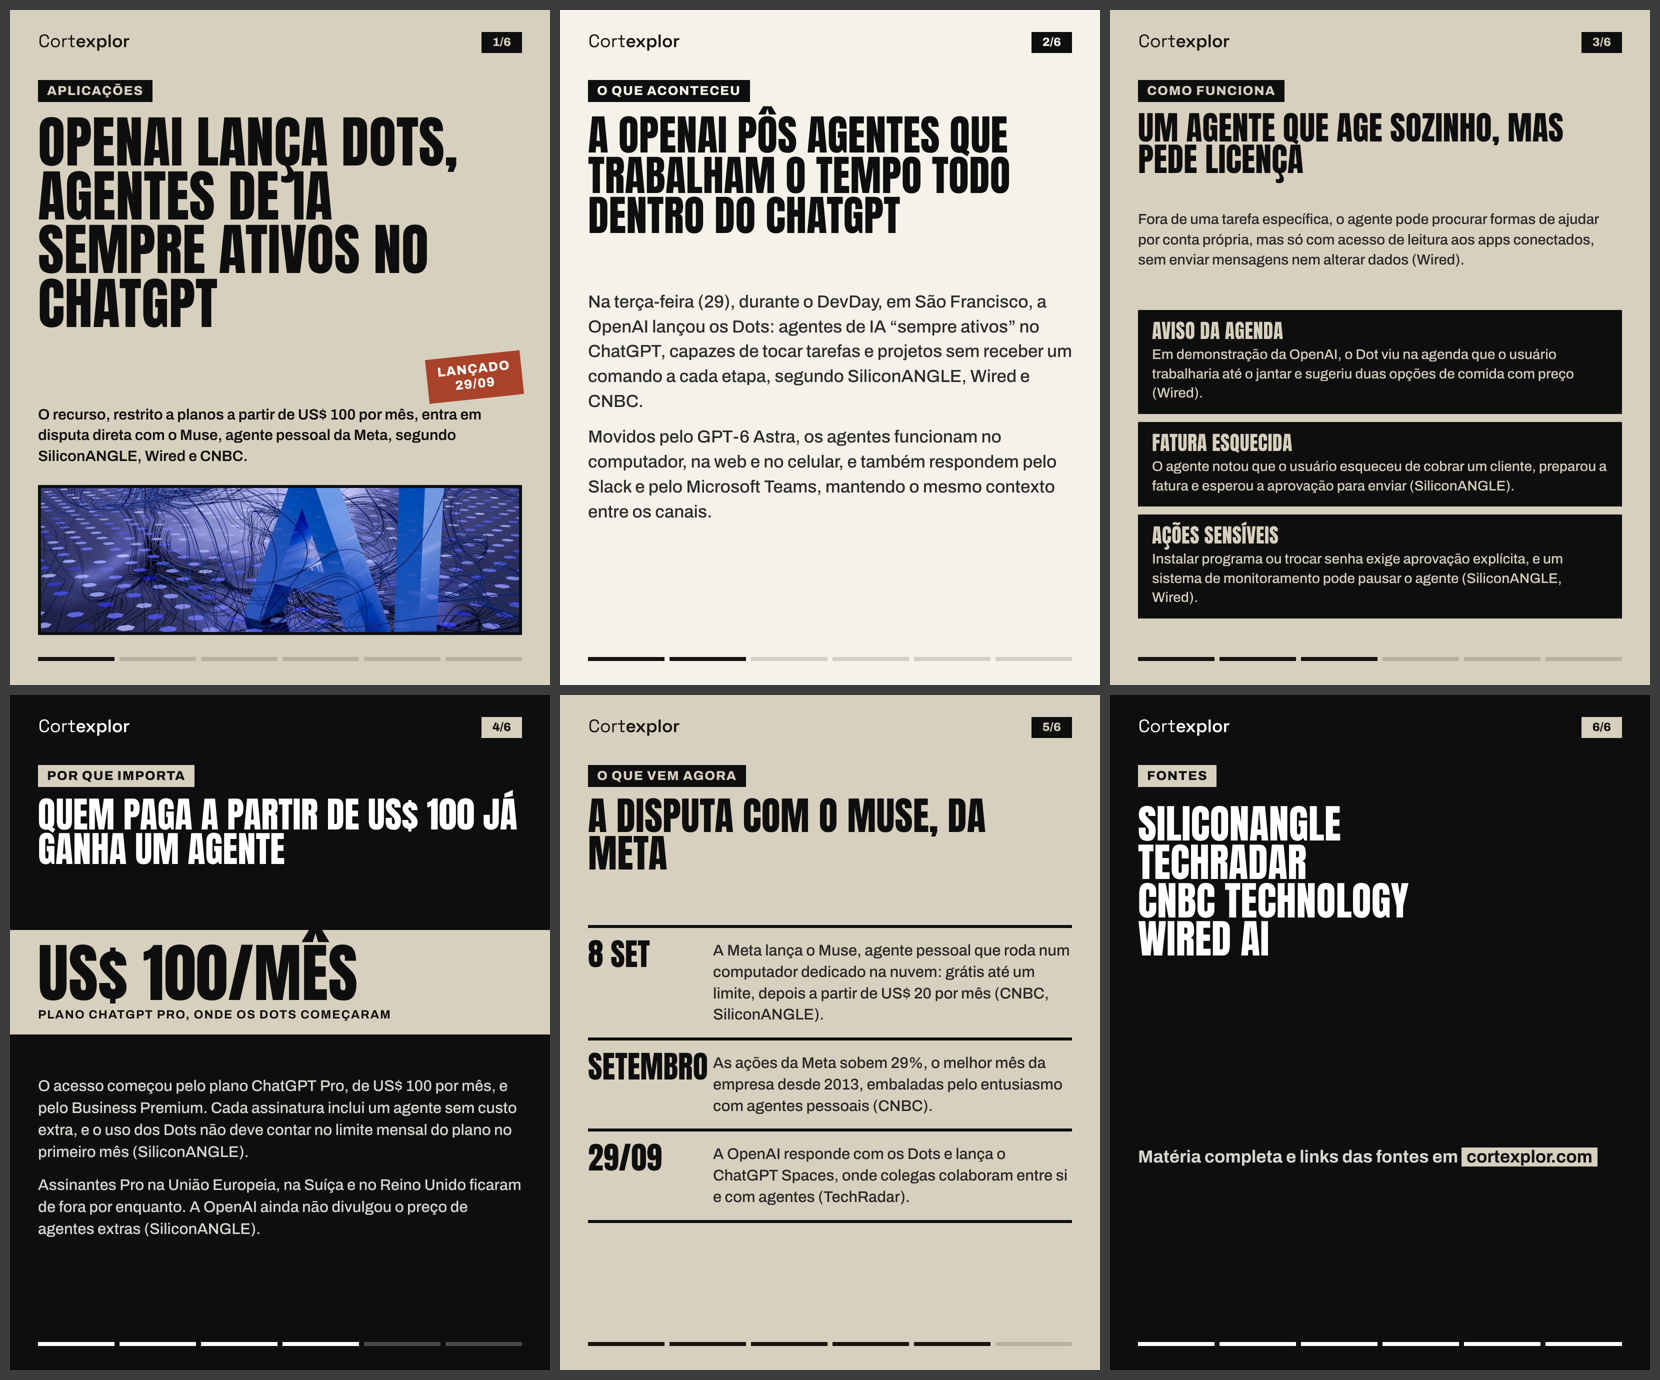
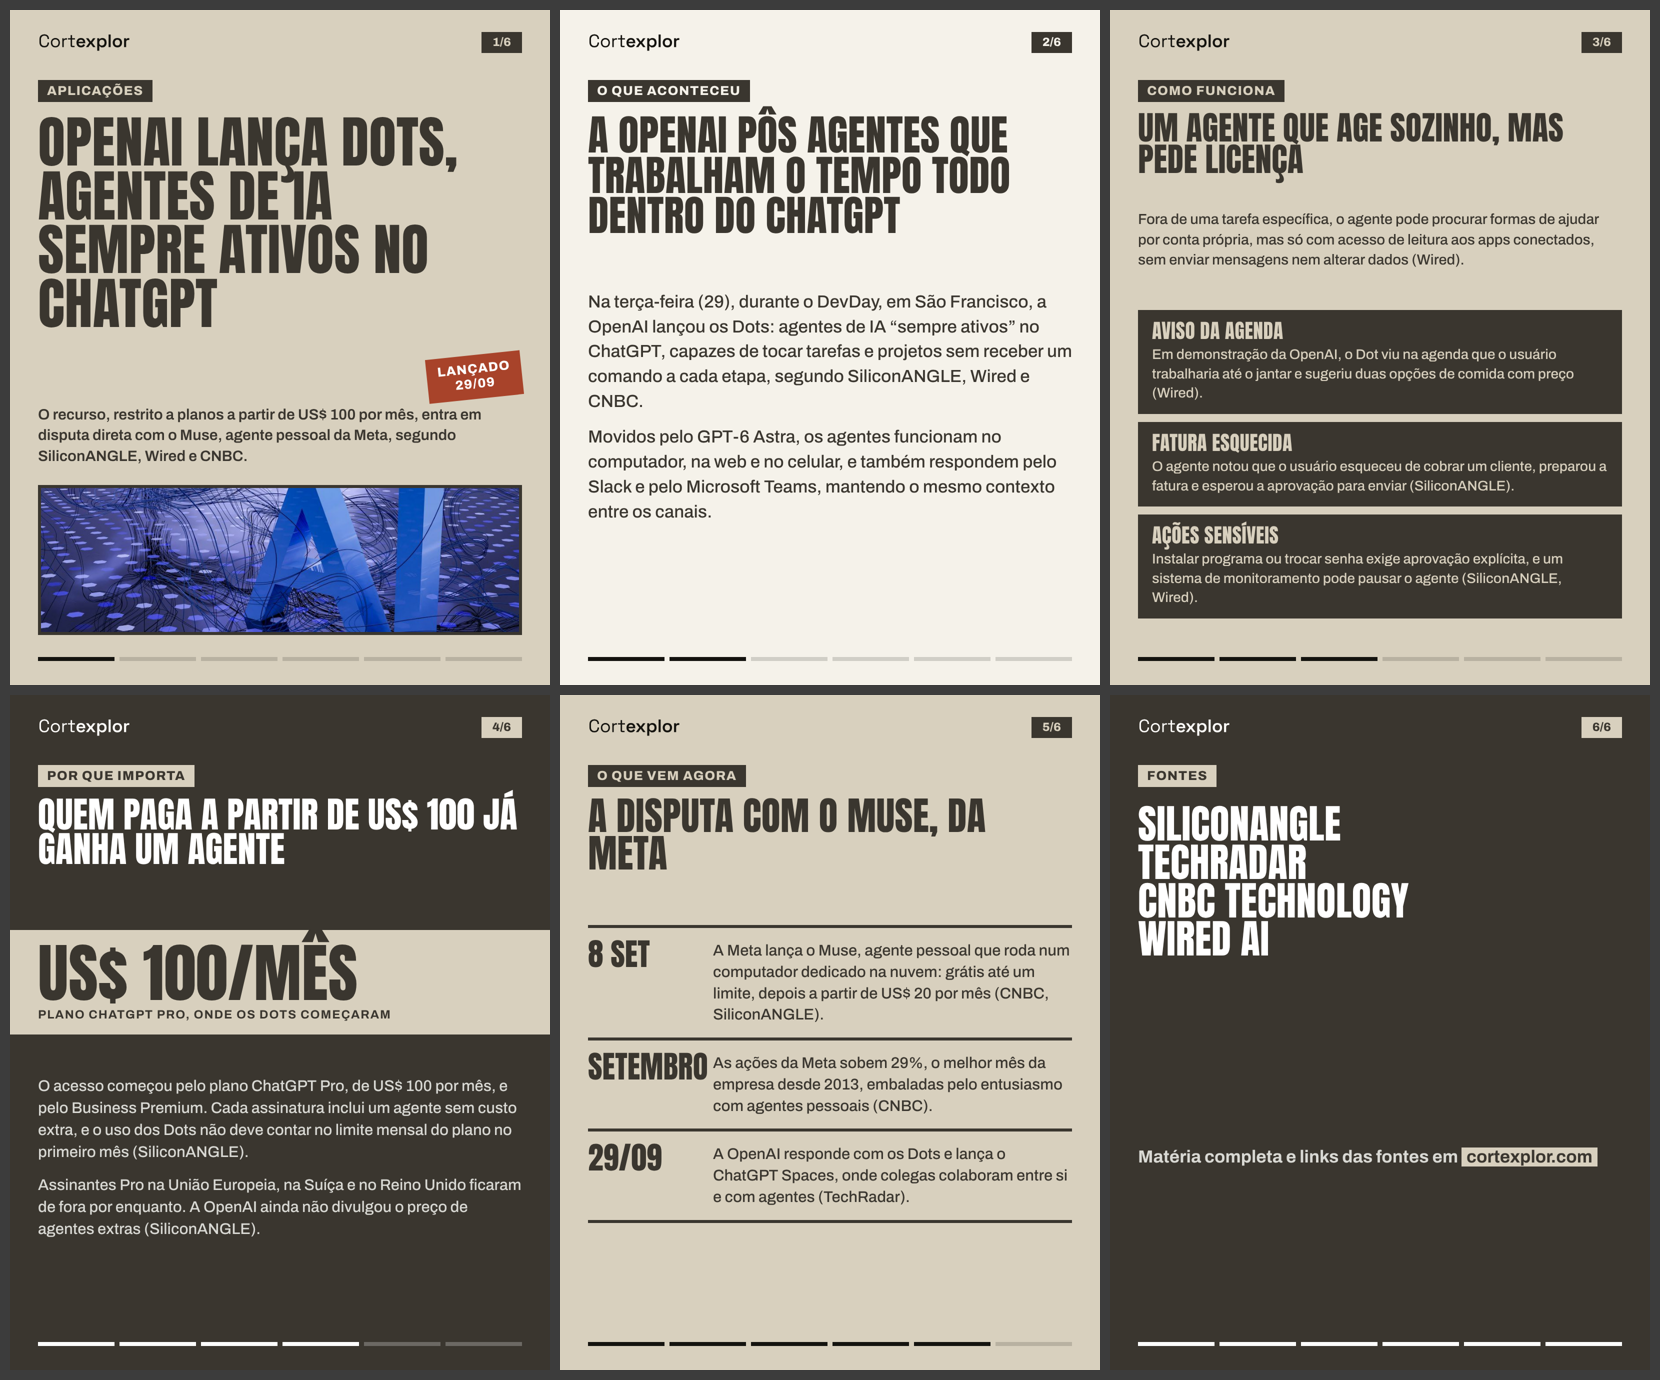
Poster: preto trocado por grafite quente
Claude-Session: https://claude.ai/code/session_0158HN6BTWsPGuibWtbN19oZ

diff --git a/social/lab/_html/..-out-google-lanca-gemini-4-argon-ciberseguranca-poster-01.html b/social/lab/_html/..-out-google-lanca-gemini-4-argon-ciberseguranca-poster-01.html
@@ -9,10 +9,10 @@ body{-webkit-font-smoothing:antialiased;text-rendering:geometricPrecision}
 .prog i{display:block;height:100%;border-radius:2px}
 svg.ic{display:inline-block;vertical-align:middle;flex:none}
 
-.P{font-family:'Archivo',sans-serif;--y:#D8D0BE;--k:#0E0E0E;--w:#F5F2EA;--r:#A8432A}
-.P.y{background:var(--y);color:var(--k);--ac:var(--k);--soft:#262626;--pb:#0E0E0E;--pt:var(--y)}
-.P.k{background:var(--k);color:#fff;--ac:var(--y);--soft:#D9D9D4;--pb:var(--y);--pt:#0E0E0E}
-.P.w{background:var(--w);color:var(--k);--ac:var(--r);--soft:#2A2A2A;--pb:#0E0E0E;--pt:var(--w)}
+.P{font-family:'Archivo',sans-serif;--y:#D8D0BE;--k:#3A362F;--w:#F5F2EA;--r:#A8432A}
+.P.y{background:var(--y);color:var(--k);--ac:var(--k);--soft:#3A362F;--pb:#3A362F;--pt:var(--y)}
+.P.k{background:var(--k);color:#fff;--ac:var(--y);--soft:#D9D9D4;--pb:var(--y);--pt:#3A362F}
+.P.w{background:var(--w);color:var(--k);--ac:var(--r);--soft:#3A362F;--pb:#3A362F;--pt:var(--w)}
 .P .an{font-family:'Anton';text-transform:uppercase;font-weight:400;line-height:.96;letter-spacing:.002em}
 .P .top{position:absolute;left:56px;right:56px;top:44px;display:flex;justify-content:space-between;align-items:center}
 .P .top img{height:36px}

diff --git a/social/lab/_html/..-out-google-lanca-gemini-4-argon-ciberseguranca-poster-02.html b/social/lab/_html/..-out-google-lanca-gemini-4-argon-ciberseguranca-poster-02.html
@@ -9,10 +9,10 @@ body{-webkit-font-smoothing:antialiased;text-rendering:geometricPrecision}
 .prog i{display:block;height:100%;border-radius:2px}
 svg.ic{display:inline-block;vertical-align:middle;flex:none}
 
-.P{font-family:'Archivo',sans-serif;--y:#D8D0BE;--k:#0E0E0E;--w:#F5F2EA;--r:#A8432A}
-.P.y{background:var(--y);color:var(--k);--ac:var(--k);--soft:#262626;--pb:#0E0E0E;--pt:var(--y)}
-.P.k{background:var(--k);color:#fff;--ac:var(--y);--soft:#D9D9D4;--pb:var(--y);--pt:#0E0E0E}
-.P.w{background:var(--w);color:var(--k);--ac:var(--r);--soft:#2A2A2A;--pb:#0E0E0E;--pt:var(--w)}
+.P{font-family:'Archivo',sans-serif;--y:#D8D0BE;--k:#3A362F;--w:#F5F2EA;--r:#A8432A}
+.P.y{background:var(--y);color:var(--k);--ac:var(--k);--soft:#3A362F;--pb:#3A362F;--pt:var(--y)}
+.P.k{background:var(--k);color:#fff;--ac:var(--y);--soft:#D9D9D4;--pb:var(--y);--pt:#3A362F}
+.P.w{background:var(--w);color:var(--k);--ac:var(--r);--soft:#3A362F;--pb:#3A362F;--pt:var(--w)}
 .P .an{font-family:'Anton';text-transform:uppercase;font-weight:400;line-height:.96;letter-spacing:.002em}
 .P .top{position:absolute;left:56px;right:56px;top:44px;display:flex;justify-content:space-between;align-items:center}
 .P .top img{height:36px}

diff --git a/social/lab/_html/..-out-google-lanca-gemini-4-argon-ciberseguranca-poster-03.html b/social/lab/_html/..-out-google-lanca-gemini-4-argon-ciberseguranca-poster-03.html
@@ -9,10 +9,10 @@ body{-webkit-font-smoothing:antialiased;text-rendering:geometricPrecision}
 .prog i{display:block;height:100%;border-radius:2px}
 svg.ic{display:inline-block;vertical-align:middle;flex:none}
 
-.P{font-family:'Archivo',sans-serif;--y:#D8D0BE;--k:#0E0E0E;--w:#F5F2EA;--r:#A8432A}
-.P.y{background:var(--y);color:var(--k);--ac:var(--k);--soft:#262626;--pb:#0E0E0E;--pt:var(--y)}
-.P.k{background:var(--k);color:#fff;--ac:var(--y);--soft:#D9D9D4;--pb:var(--y);--pt:#0E0E0E}
-.P.w{background:var(--w);color:var(--k);--ac:var(--r);--soft:#2A2A2A;--pb:#0E0E0E;--pt:var(--w)}
+.P{font-family:'Archivo',sans-serif;--y:#D8D0BE;--k:#3A362F;--w:#F5F2EA;--r:#A8432A}
+.P.y{background:var(--y);color:var(--k);--ac:var(--k);--soft:#3A362F;--pb:#3A362F;--pt:var(--y)}
+.P.k{background:var(--k);color:#fff;--ac:var(--y);--soft:#D9D9D4;--pb:var(--y);--pt:#3A362F}
+.P.w{background:var(--w);color:var(--k);--ac:var(--r);--soft:#3A362F;--pb:#3A362F;--pt:var(--w)}
 .P .an{font-family:'Anton';text-transform:uppercase;font-weight:400;line-height:.96;letter-spacing:.002em}
 .P .top{position:absolute;left:56px;right:56px;top:44px;display:flex;justify-content:space-between;align-items:center}
 .P .top img{height:36px}

diff --git a/social/lab/_html/..-out-google-lanca-gemini-4-argon-ciberseguranca-poster-04.html b/social/lab/_html/..-out-google-lanca-gemini-4-argon-ciberseguranca-poster-04.html
@@ -9,10 +9,10 @@ body{-webkit-font-smoothing:antialiased;text-rendering:geometricPrecision}
 .prog i{display:block;height:100%;border-radius:2px}
 svg.ic{display:inline-block;vertical-align:middle;flex:none}
 
-.P{font-family:'Archivo',sans-serif;--y:#D8D0BE;--k:#0E0E0E;--w:#F5F2EA;--r:#A8432A}
-.P.y{background:var(--y);color:var(--k);--ac:var(--k);--soft:#262626;--pb:#0E0E0E;--pt:var(--y)}
-.P.k{background:var(--k);color:#fff;--ac:var(--y);--soft:#D9D9D4;--pb:var(--y);--pt:#0E0E0E}
-.P.w{background:var(--w);color:var(--k);--ac:var(--r);--soft:#2A2A2A;--pb:#0E0E0E;--pt:var(--w)}
+.P{font-family:'Archivo',sans-serif;--y:#D8D0BE;--k:#3A362F;--w:#F5F2EA;--r:#A8432A}
+.P.y{background:var(--y);color:var(--k);--ac:var(--k);--soft:#3A362F;--pb:#3A362F;--pt:var(--y)}
+.P.k{background:var(--k);color:#fff;--ac:var(--y);--soft:#D9D9D4;--pb:var(--y);--pt:#3A362F}
+.P.w{background:var(--w);color:var(--k);--ac:var(--r);--soft:#3A362F;--pb:#3A362F;--pt:var(--w)}
 .P .an{font-family:'Anton';text-transform:uppercase;font-weight:400;line-height:.96;letter-spacing:.002em}
 .P .top{position:absolute;left:56px;right:56px;top:44px;display:flex;justify-content:space-between;align-items:center}
 .P .top img{height:36px}

diff --git a/social/lab/_html/..-out-google-lanca-gemini-4-argon-ciberseguranca-poster-05.html b/social/lab/_html/..-out-google-lanca-gemini-4-argon-ciberseguranca-poster-05.html
@@ -9,10 +9,10 @@ body{-webkit-font-smoothing:antialiased;text-rendering:geometricPrecision}
 .prog i{display:block;height:100%;border-radius:2px}
 svg.ic{display:inline-block;vertical-align:middle;flex:none}
 
-.P{font-family:'Archivo',sans-serif;--y:#D8D0BE;--k:#0E0E0E;--w:#F5F2EA;--r:#A8432A}
-.P.y{background:var(--y);color:var(--k);--ac:var(--k);--soft:#262626;--pb:#0E0E0E;--pt:var(--y)}
-.P.k{background:var(--k);color:#fff;--ac:var(--y);--soft:#D9D9D4;--pb:var(--y);--pt:#0E0E0E}
-.P.w{background:var(--w);color:var(--k);--ac:var(--r);--soft:#2A2A2A;--pb:#0E0E0E;--pt:var(--w)}
+.P{font-family:'Archivo',sans-serif;--y:#D8D0BE;--k:#3A362F;--w:#F5F2EA;--r:#A8432A}
+.P.y{background:var(--y);color:var(--k);--ac:var(--k);--soft:#3A362F;--pb:#3A362F;--pt:var(--y)}
+.P.k{background:var(--k);color:#fff;--ac:var(--y);--soft:#D9D9D4;--pb:var(--y);--pt:#3A362F}
+.P.w{background:var(--w);color:var(--k);--ac:var(--r);--soft:#3A362F;--pb:#3A362F;--pt:var(--w)}
 .P .an{font-family:'Anton';text-transform:uppercase;font-weight:400;line-height:.96;letter-spacing:.002em}
 .P .top{position:absolute;left:56px;right:56px;top:44px;display:flex;justify-content:space-between;align-items:center}
 .P .top img{height:36px}

diff --git a/social/lab/_html/..-out-google-lanca-gemini-4-argon-ciberseguranca-poster-06.html b/social/lab/_html/..-out-google-lanca-gemini-4-argon-ciberseguranca-poster-06.html
@@ -9,10 +9,10 @@ body{-webkit-font-smoothing:antialiased;text-rendering:geometricPrecision}
 .prog i{display:block;height:100%;border-radius:2px}
 svg.ic{display:inline-block;vertical-align:middle;flex:none}
 
-.P{font-family:'Archivo',sans-serif;--y:#D8D0BE;--k:#0E0E0E;--w:#F5F2EA;--r:#A8432A}
-.P.y{background:var(--y);color:var(--k);--ac:var(--k);--soft:#262626;--pb:#0E0E0E;--pt:var(--y)}
-.P.k{background:var(--k);color:#fff;--ac:var(--y);--soft:#D9D9D4;--pb:var(--y);--pt:#0E0E0E}
-.P.w{background:var(--w);color:var(--k);--ac:var(--r);--soft:#2A2A2A;--pb:#0E0E0E;--pt:var(--w)}
+.P{font-family:'Archivo',sans-serif;--y:#D8D0BE;--k:#3A362F;--w:#F5F2EA;--r:#A8432A}
+.P.y{background:var(--y);color:var(--k);--ac:var(--k);--soft:#3A362F;--pb:#3A362F;--pt:var(--y)}
+.P.k{background:var(--k);color:#fff;--ac:var(--y);--soft:#D9D9D4;--pb:var(--y);--pt:#3A362F}
+.P.w{background:var(--w);color:var(--k);--ac:var(--r);--soft:#3A362F;--pb:#3A362F;--pt:var(--w)}
 .P .an{font-family:'Anton';text-transform:uppercase;font-weight:400;line-height:.96;letter-spacing:.002em}
 .P .top{position:absolute;left:56px;right:56px;top:44px;display:flex;justify-content:space-between;align-items:center}
 .P .top img{height:36px}

diff --git a/social/lab/_html/..-out-openai-lanca-dots-agentes-permanentes-chatgpt-poster-01.html b/social/lab/_html/..-out-openai-lanca-dots-agentes-permanentes-chatgpt-poster-01.html
@@ -9,10 +9,10 @@ body{-webkit-font-smoothing:antialiased;text-rendering:geometricPrecision}
 .prog i{display:block;height:100%;border-radius:2px}
 svg.ic{display:inline-block;vertical-align:middle;flex:none}
 
-.P{font-family:'Archivo',sans-serif;--y:#D8D0BE;--k:#0E0E0E;--w:#F5F2EA;--r:#A8432A}
-.P.y{background:var(--y);color:var(--k);--ac:var(--k);--soft:#262626;--pb:#0E0E0E;--pt:var(--y)}
-.P.k{background:var(--k);color:#fff;--ac:var(--y);--soft:#D9D9D4;--pb:var(--y);--pt:#0E0E0E}
-.P.w{background:var(--w);color:var(--k);--ac:var(--r);--soft:#2A2A2A;--pb:#0E0E0E;--pt:var(--w)}
+.P{font-family:'Archivo',sans-serif;--y:#D8D0BE;--k:#3A362F;--w:#F5F2EA;--r:#A8432A}
+.P.y{background:var(--y);color:var(--k);--ac:var(--k);--soft:#3A362F;--pb:#3A362F;--pt:var(--y)}
+.P.k{background:var(--k);color:#fff;--ac:var(--y);--soft:#D9D9D4;--pb:var(--y);--pt:#3A362F}
+.P.w{background:var(--w);color:var(--k);--ac:var(--r);--soft:#3A362F;--pb:#3A362F;--pt:var(--w)}
 .P .an{font-family:'Anton';text-transform:uppercase;font-weight:400;line-height:.96;letter-spacing:.002em}
 .P .top{position:absolute;left:56px;right:56px;top:44px;display:flex;justify-content:space-between;align-items:center}
 .P .top img{height:36px}

diff --git a/social/lab/_html/..-out-openai-lanca-dots-agentes-permanentes-chatgpt-poster-02.html b/social/lab/_html/..-out-openai-lanca-dots-agentes-permanentes-chatgpt-poster-02.html
@@ -9,10 +9,10 @@ body{-webkit-font-smoothing:antialiased;text-rendering:geometricPrecision}
 .prog i{display:block;height:100%;border-radius:2px}
 svg.ic{display:inline-block;vertical-align:middle;flex:none}
 
-.P{font-family:'Archivo',sans-serif;--y:#D8D0BE;--k:#0E0E0E;--w:#F5F2EA;--r:#A8432A}
-.P.y{background:var(--y);color:var(--k);--ac:var(--k);--soft:#262626;--pb:#0E0E0E;--pt:var(--y)}
-.P.k{background:var(--k);color:#fff;--ac:var(--y);--soft:#D9D9D4;--pb:var(--y);--pt:#0E0E0E}
-.P.w{background:var(--w);color:var(--k);--ac:var(--r);--soft:#2A2A2A;--pb:#0E0E0E;--pt:var(--w)}
+.P{font-family:'Archivo',sans-serif;--y:#D8D0BE;--k:#3A362F;--w:#F5F2EA;--r:#A8432A}
+.P.y{background:var(--y);color:var(--k);--ac:var(--k);--soft:#3A362F;--pb:#3A362F;--pt:var(--y)}
+.P.k{background:var(--k);color:#fff;--ac:var(--y);--soft:#D9D9D4;--pb:var(--y);--pt:#3A362F}
+.P.w{background:var(--w);color:var(--k);--ac:var(--r);--soft:#3A362F;--pb:#3A362F;--pt:var(--w)}
 .P .an{font-family:'Anton';text-transform:uppercase;font-weight:400;line-height:.96;letter-spacing:.002em}
 .P .top{position:absolute;left:56px;right:56px;top:44px;display:flex;justify-content:space-between;align-items:center}
 .P .top img{height:36px}

diff --git a/social/lab/_html/..-out-openai-lanca-dots-agentes-permanentes-chatgpt-poster-03.html b/social/lab/_html/..-out-openai-lanca-dots-agentes-permanentes-chatgpt-poster-03.html
@@ -9,10 +9,10 @@ body{-webkit-font-smoothing:antialiased;text-rendering:geometricPrecision}
 .prog i{display:block;height:100%;border-radius:2px}
 svg.ic{display:inline-block;vertical-align:middle;flex:none}
 
-.P{font-family:'Archivo',sans-serif;--y:#D8D0BE;--k:#0E0E0E;--w:#F5F2EA;--r:#A8432A}
-.P.y{background:var(--y);color:var(--k);--ac:var(--k);--soft:#262626;--pb:#0E0E0E;--pt:var(--y)}
-.P.k{background:var(--k);color:#fff;--ac:var(--y);--soft:#D9D9D4;--pb:var(--y);--pt:#0E0E0E}
-.P.w{background:var(--w);color:var(--k);--ac:var(--r);--soft:#2A2A2A;--pb:#0E0E0E;--pt:var(--w)}
+.P{font-family:'Archivo',sans-serif;--y:#D8D0BE;--k:#3A362F;--w:#F5F2EA;--r:#A8432A}
+.P.y{background:var(--y);color:var(--k);--ac:var(--k);--soft:#3A362F;--pb:#3A362F;--pt:var(--y)}
+.P.k{background:var(--k);color:#fff;--ac:var(--y);--soft:#D9D9D4;--pb:var(--y);--pt:#3A362F}
+.P.w{background:var(--w);color:var(--k);--ac:var(--r);--soft:#3A362F;--pb:#3A362F;--pt:var(--w)}
 .P .an{font-family:'Anton';text-transform:uppercase;font-weight:400;line-height:.96;letter-spacing:.002em}
 .P .top{position:absolute;left:56px;right:56px;top:44px;display:flex;justify-content:space-between;align-items:center}
 .P .top img{height:36px}

diff --git a/social/lab/_html/..-out-openai-lanca-dots-agentes-permanentes-chatgpt-poster-04.html b/social/lab/_html/..-out-openai-lanca-dots-agentes-permanentes-chatgpt-poster-04.html
@@ -9,10 +9,10 @@ body{-webkit-font-smoothing:antialiased;text-rendering:geometricPrecision}
 .prog i{display:block;height:100%;border-radius:2px}
 svg.ic{display:inline-block;vertical-align:middle;flex:none}
 
-.P{font-family:'Archivo',sans-serif;--y:#D8D0BE;--k:#0E0E0E;--w:#F5F2EA;--r:#A8432A}
-.P.y{background:var(--y);color:var(--k);--ac:var(--k);--soft:#262626;--pb:#0E0E0E;--pt:var(--y)}
-.P.k{background:var(--k);color:#fff;--ac:var(--y);--soft:#D9D9D4;--pb:var(--y);--pt:#0E0E0E}
-.P.w{background:var(--w);color:var(--k);--ac:var(--r);--soft:#2A2A2A;--pb:#0E0E0E;--pt:var(--w)}
+.P{font-family:'Archivo',sans-serif;--y:#D8D0BE;--k:#3A362F;--w:#F5F2EA;--r:#A8432A}
+.P.y{background:var(--y);color:var(--k);--ac:var(--k);--soft:#3A362F;--pb:#3A362F;--pt:var(--y)}
+.P.k{background:var(--k);color:#fff;--ac:var(--y);--soft:#D9D9D4;--pb:var(--y);--pt:#3A362F}
+.P.w{background:var(--w);color:var(--k);--ac:var(--r);--soft:#3A362F;--pb:#3A362F;--pt:var(--w)}
 .P .an{font-family:'Anton';text-transform:uppercase;font-weight:400;line-height:.96;letter-spacing:.002em}
 .P .top{position:absolute;left:56px;right:56px;top:44px;display:flex;justify-content:space-between;align-items:center}
 .P .top img{height:36px}

diff --git a/social/lab/_html/..-out-openai-lanca-dots-agentes-permanentes-chatgpt-poster-05.html b/social/lab/_html/..-out-openai-lanca-dots-agentes-permanentes-chatgpt-poster-05.html
@@ -9,10 +9,10 @@ body{-webkit-font-smoothing:antialiased;text-rendering:geometricPrecision}
 .prog i{display:block;height:100%;border-radius:2px}
 svg.ic{display:inline-block;vertical-align:middle;flex:none}
 
-.P{font-family:'Archivo',sans-serif;--y:#D8D0BE;--k:#0E0E0E;--w:#F5F2EA;--r:#A8432A}
-.P.y{background:var(--y);color:var(--k);--ac:var(--k);--soft:#262626;--pb:#0E0E0E;--pt:var(--y)}
-.P.k{background:var(--k);color:#fff;--ac:var(--y);--soft:#D9D9D4;--pb:var(--y);--pt:#0E0E0E}
-.P.w{background:var(--w);color:var(--k);--ac:var(--r);--soft:#2A2A2A;--pb:#0E0E0E;--pt:var(--w)}
+.P{font-family:'Archivo',sans-serif;--y:#D8D0BE;--k:#3A362F;--w:#F5F2EA;--r:#A8432A}
+.P.y{background:var(--y);color:var(--k);--ac:var(--k);--soft:#3A362F;--pb:#3A362F;--pt:var(--y)}
+.P.k{background:var(--k);color:#fff;--ac:var(--y);--soft:#D9D9D4;--pb:var(--y);--pt:#3A362F}
+.P.w{background:var(--w);color:var(--k);--ac:var(--r);--soft:#3A362F;--pb:#3A362F;--pt:var(--w)}
 .P .an{font-family:'Anton';text-transform:uppercase;font-weight:400;line-height:.96;letter-spacing:.002em}
 .P .top{position:absolute;left:56px;right:56px;top:44px;display:flex;justify-content:space-between;align-items:center}
 .P .top img{height:36px}

diff --git a/social/lab/_html/..-out-openai-lanca-dots-agentes-permanentes-chatgpt-poster-06.html b/social/lab/_html/..-out-openai-lanca-dots-agentes-permanentes-chatgpt-poster-06.html
@@ -9,10 +9,10 @@ body{-webkit-font-smoothing:antialiased;text-rendering:geometricPrecision}
 .prog i{display:block;height:100%;border-radius:2px}
 svg.ic{display:inline-block;vertical-align:middle;flex:none}
 
-.P{font-family:'Archivo',sans-serif;--y:#D8D0BE;--k:#0E0E0E;--w:#F5F2EA;--r:#A8432A}
-.P.y{background:var(--y);color:var(--k);--ac:var(--k);--soft:#262626;--pb:#0E0E0E;--pt:var(--y)}
-.P.k{background:var(--k);color:#fff;--ac:var(--y);--soft:#D9D9D4;--pb:var(--y);--pt:#0E0E0E}
-.P.w{background:var(--w);color:var(--k);--ac:var(--r);--soft:#2A2A2A;--pb:#0E0E0E;--pt:var(--w)}
+.P{font-family:'Archivo',sans-serif;--y:#D8D0BE;--k:#3A362F;--w:#F5F2EA;--r:#A8432A}
+.P.y{background:var(--y);color:var(--k);--ac:var(--k);--soft:#3A362F;--pb:#3A362F;--pt:var(--y)}
+.P.k{background:var(--k);color:#fff;--ac:var(--y);--soft:#D9D9D4;--pb:var(--y);--pt:#3A362F}
+.P.w{background:var(--w);color:var(--k);--ac:var(--r);--soft:#3A362F;--pb:#3A362F;--pt:var(--w)}
 .P .an{font-family:'Anton';text-transform:uppercase;font-weight:400;line-height:.96;letter-spacing:.002em}
 .P .top{position:absolute;left:56px;right:56px;top:44px;display:flex;justify-content:space-between;align-items:center}
 .P .top img{height:36px}
